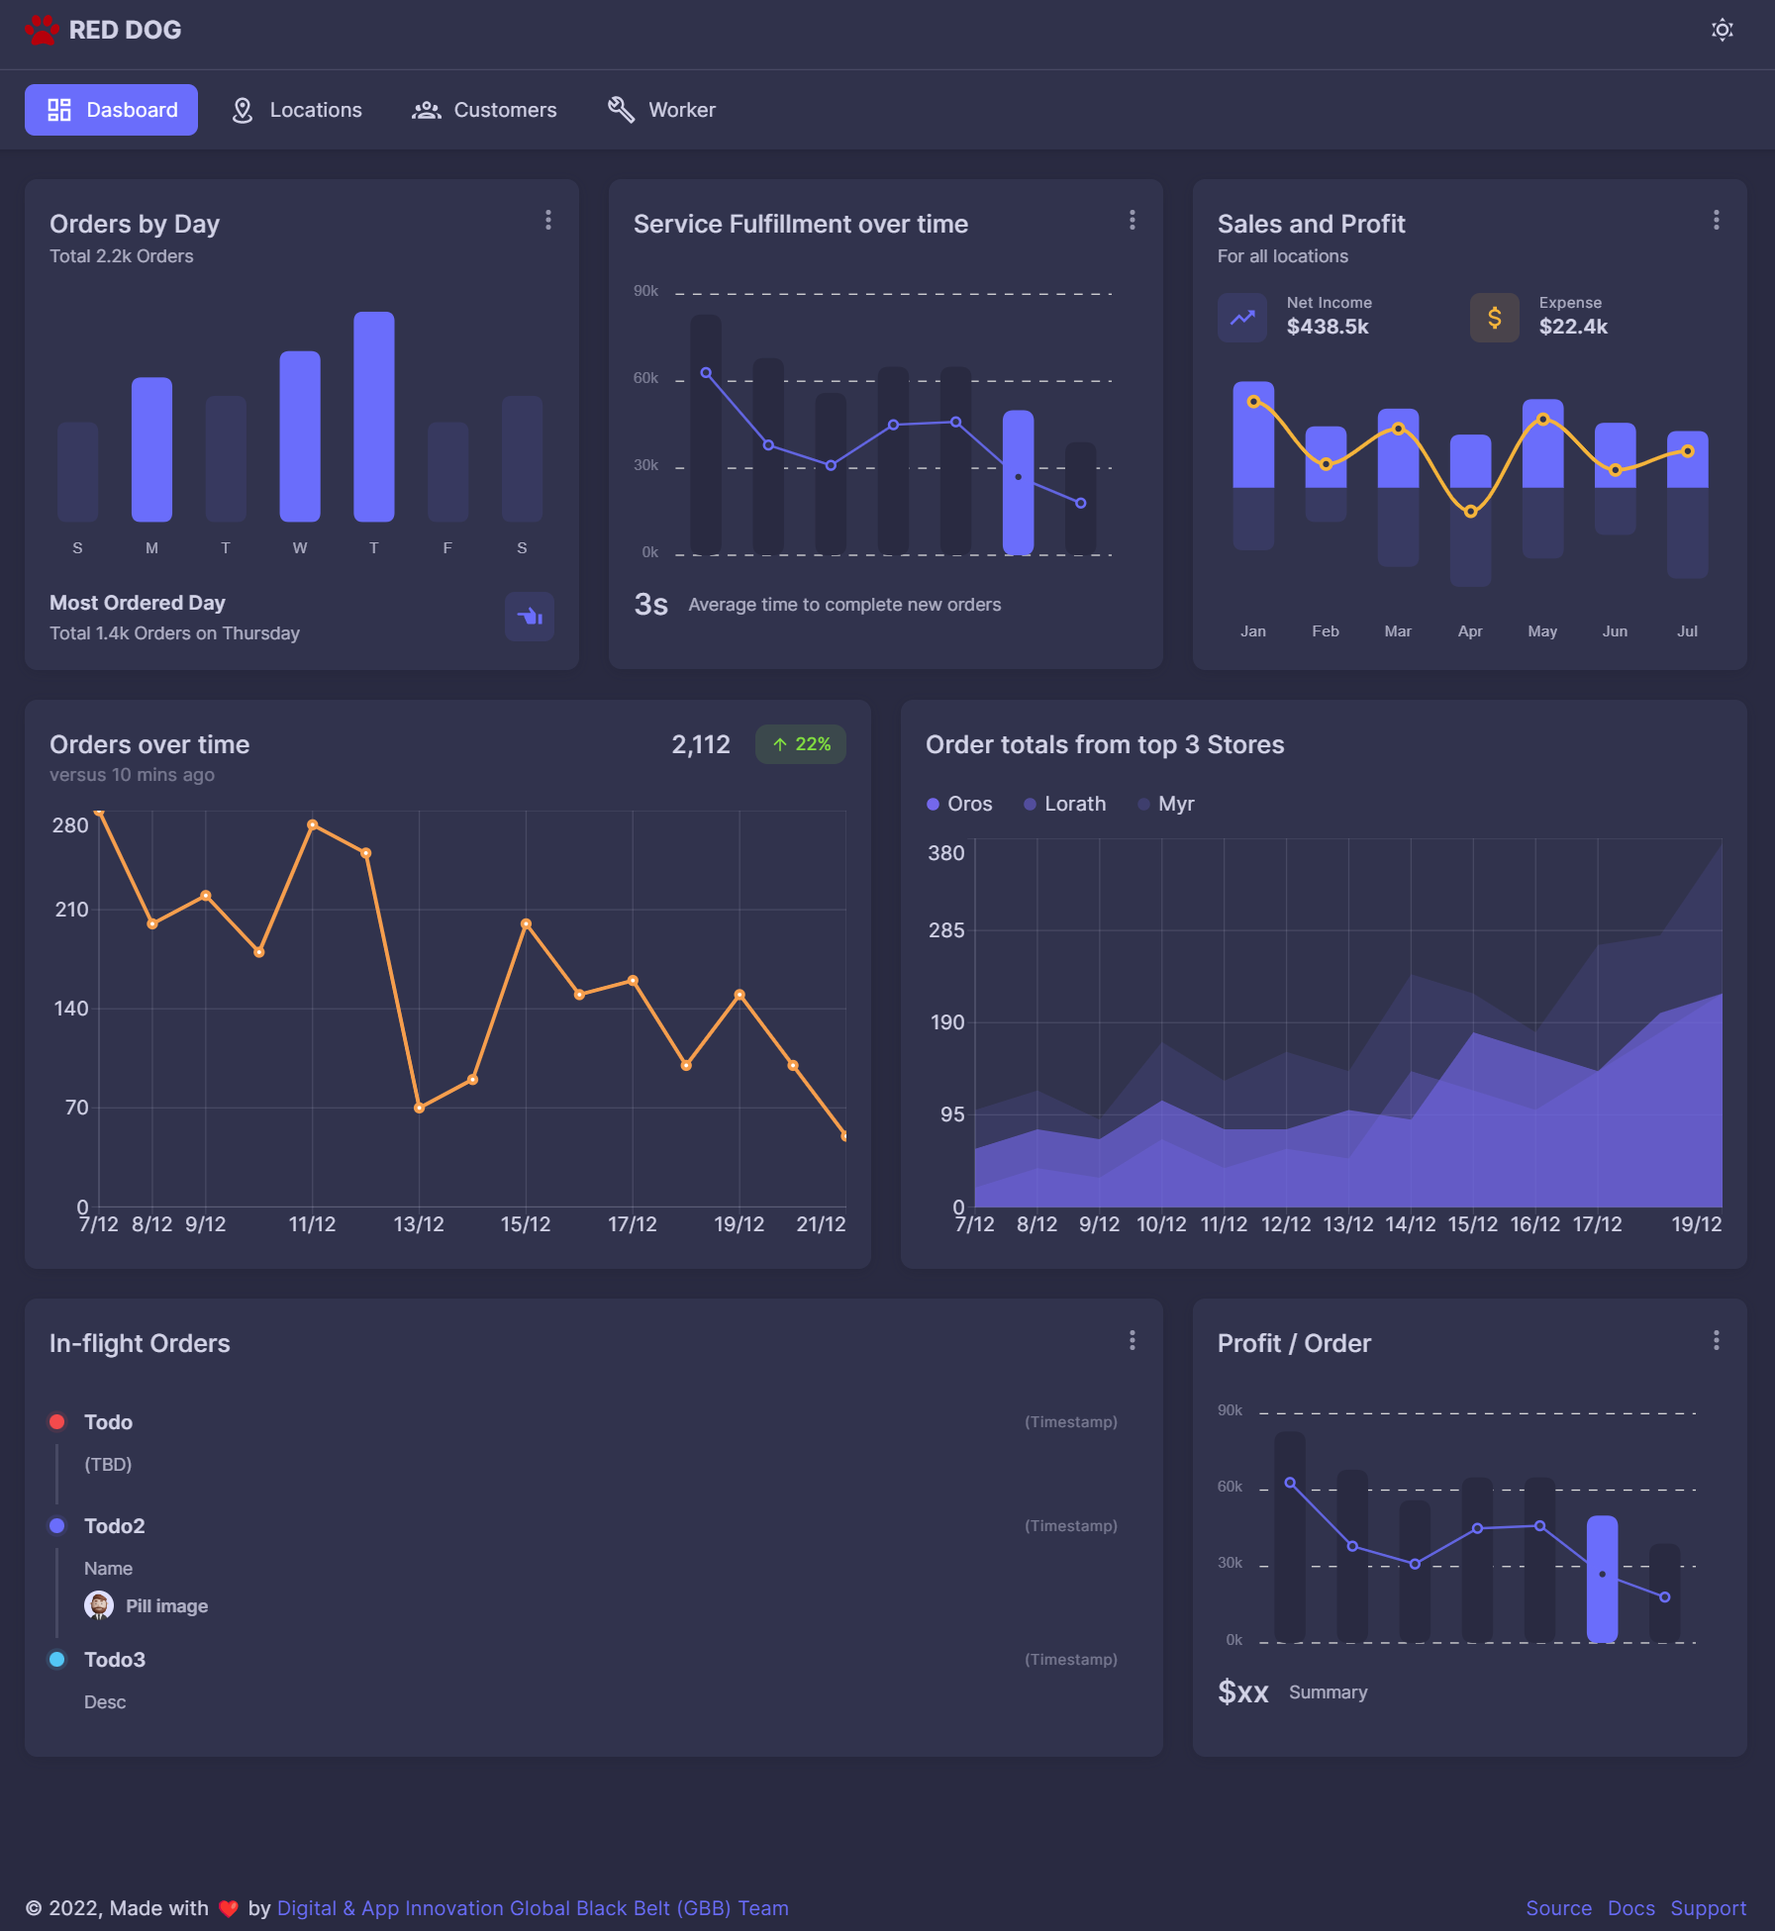
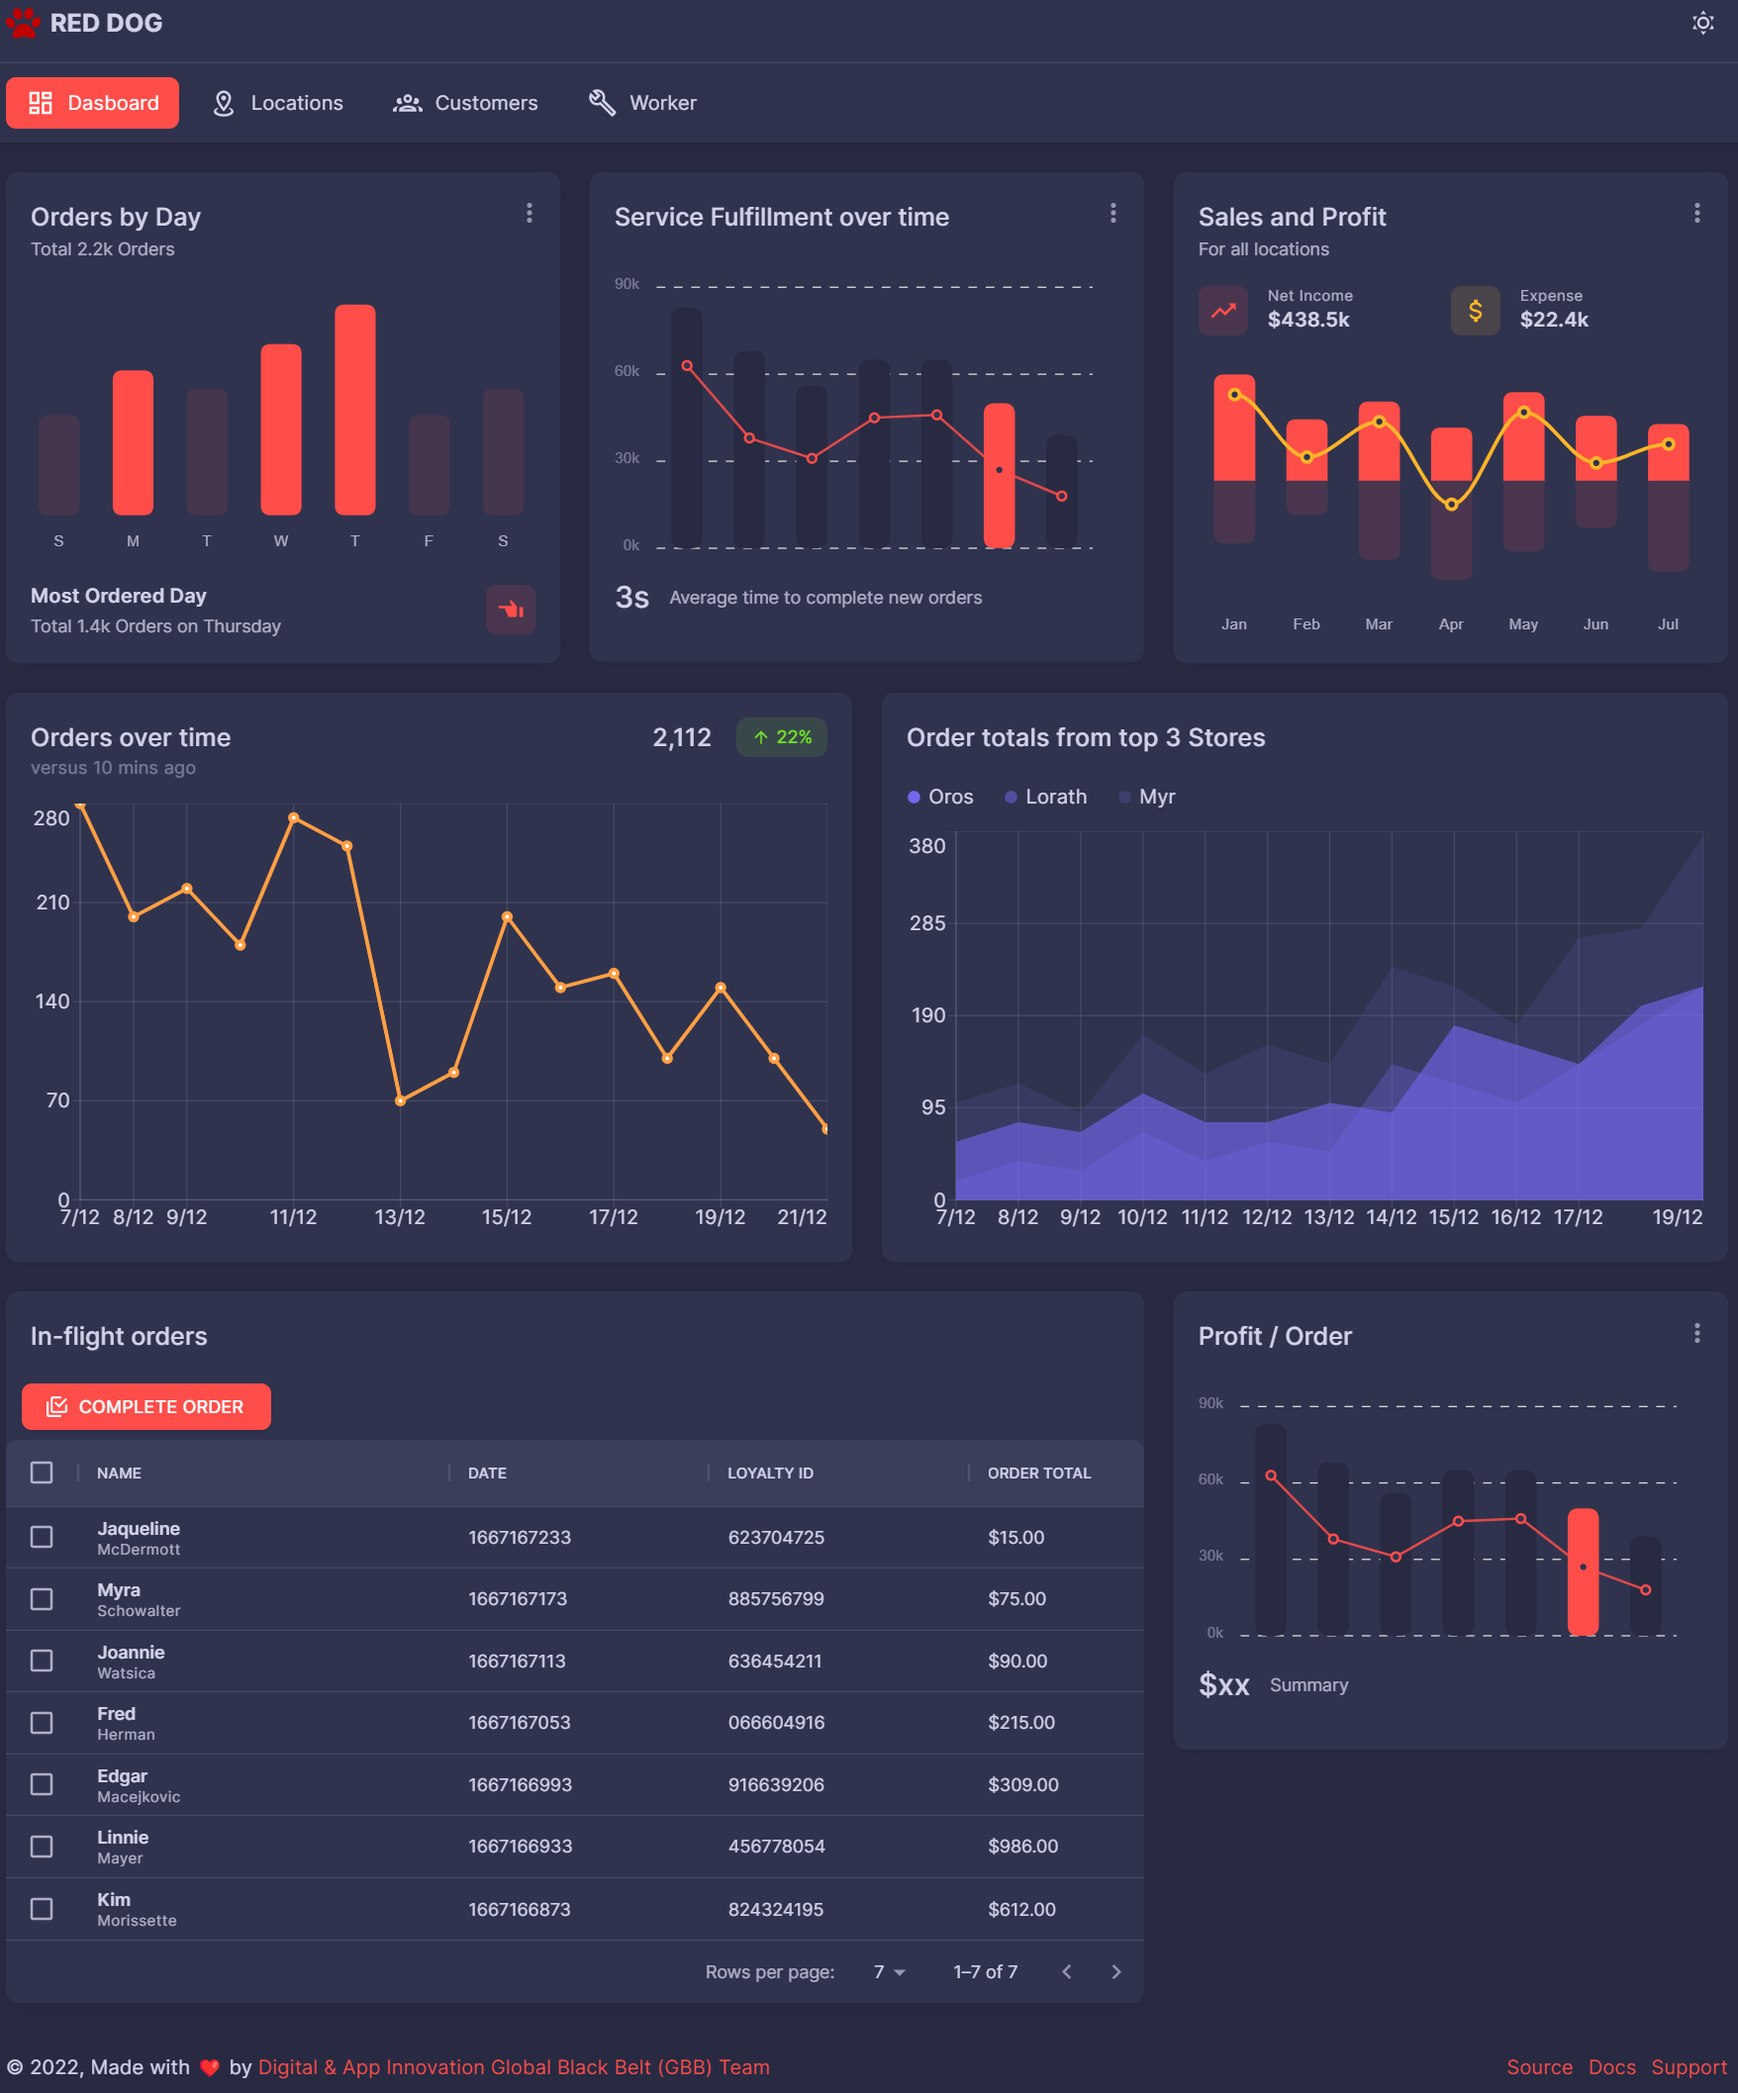
add in-flight orders datagrid

diff --git a/ui/nextjs-react/src/views/table/data-grid/TableServerSide.tsx b/ui/nextjs-react/src/views/table/data-grid/TableServerSide.tsx
@@ -1,0 +1,168 @@
+// ** React Imports
+import {useCallback, useEffect, useState} from 'react'
+
+// ** MUI Imports
+import Box from '@mui/material/Box'
+import Card from '@mui/material/Card'
+import Typography from '@mui/material/Typography'
+import CardHeader from '@mui/material/CardHeader'
+import {DataGrid, GridColumns, GridRenderCellParams, GridSortModel} from '@mui/x-data-grid'
+
+// ** ThirdParty Components
+import axios from 'axios'
+
+// ** Custom Components
+import CustomChip from 'src/@core/components/mui/chip'
+import ServerSideToolbar from 'src/views/table/data-grid/ServerSideToolbar'
+
+// ** Types Imports
+import {ThemeColor} from 'src/@core/layouts/types'
+import {OrdersGridRowType} from "src/@core/utils/types";
+
+// ** Utils Import
+
+interface StatusObj {
+  [key: number]: {
+    title: string
+    color: ThemeColor
+  }
+}
+
+type SortType = 'asc' | 'desc' | undefined | null
+
+
+const statusObj: StatusObj = {
+  1: { title: 'in-flight', color: 'primary' },
+  2: { title: 'Completed', color: 'success' }
+}
+
+const columns: GridColumns = [
+  {
+    flex: 0.25,
+    minWidth: 180,
+    field: 'firstName',
+    headerName: 'Name',
+    renderCell: (params: GridRenderCellParams) => {
+      const { row } = params
+
+      return (
+        <Box sx={{ display: 'flex', alignItems: 'center' }}>
+          <Box sx={{ display: 'flex', flexDirection: 'column' }}>
+            <Typography noWrap variant='body2' sx={{ color: 'text.primary', fontWeight: 600 }}>
+              {row.firstName}
+            </Typography>
+            <Typography noWrap variant='caption'>
+              {row.lastName}
+            </Typography>
+          </Box>
+        </Box>
+      )
+    }
+  },
+  {
+    flex: 0.175,
+    minWidth: 120,
+    headerName: 'Date',
+    field: 'orderCompletedDate',
+    renderCell: (params: GridRenderCellParams) => (
+      <Typography variant='body2' sx={{ color: 'text.primary' }}>
+        {params.row.orderCompletedDate}
+      </Typography>
+    )
+  },
+  {
+    flex: 0.175,
+    minWidth: 110,
+    field: 'loyaltyId',
+    headerName: 'Loyalty ID',
+    renderCell: (params: GridRenderCellParams) => (
+      <Typography variant='body2' sx={{ color: 'text.primary' }}>
+        {params.row.loyaltyId}
+      </Typography>
+    )
+  },
+  {
+    flex: 0.125,
+    field: 'orderTotal',
+    minWidth: 150,
+    headerName: 'Order total',
+    renderCell: (params: GridRenderCellParams) => (
+      <Typography variant='body2' sx={{ color: 'text.primary' }}>
+        ${params.row.orderTotal}
+      </Typography>
+    )
+  }
+]
+
+const TableServerSide = () => {
+  // ** State
+  const [page, setPage] = useState(0)
+  const [total, setTotal] = useState<number>(0)
+  const [sort, setSort] = useState<SortType>('asc')
+  const [pageSize, setPageSize] = useState<number>(7)
+  const [rows, setRows] = useState<OrdersGridRowType[]>([])
+  const [sortColumn, setSortColumn] = useState<string>('full_name')
+
+  function loadServerRows(currentPage: number, data: OrdersGridRowType[]) {
+    return data.slice(currentPage * pageSize, (currentPage + 1) * pageSize)
+  }
+
+  const fetchTableData = useCallback(
+    async (sort: SortType, column: string) => {
+      await axios
+        .get('/api/orders', {
+          params: {
+            sort,
+            column
+          }
+        })
+        .then(res => {
+          setTotal(res.data.orderTotal)
+          setRows(loadServerRows(page, res.data))
+        })
+    },
+    // eslint-disable-next-line react-hooks/exhaustive-deps
+    [page, pageSize]
+  )
+
+  useEffect(() => {
+    fetchTableData(sort, sortColumn)
+  }, [fetchTableData, sort, sortColumn])
+
+  const handleSortModel = (newModel: GridSortModel) => {
+    if (newModel.length) {
+      setSort(newModel[0].sort)
+      setSortColumn(newModel[0].field)
+      fetchTableData(newModel[0].sort,newModel[0].field)
+    } else {
+      setSort('asc')
+      setSortColumn('full_name')
+    }
+  }
+
+
+  return (
+    <Card>
+      <CardHeader title='In-flight orders' />
+      <DataGrid
+        autoHeight
+        pagination
+        rows={rows}
+        rowCount={total}
+        columns={columns}
+        checkboxSelection
+        pageSize={pageSize}
+        sortingMode='server'
+        paginationMode='server'
+        onSortModelChange={handleSortModel}
+        getRowId={row => row.orderId}
+        rowsPerPageOptions={[7, 10, 25, 50]}
+        onPageChange={newPage => setPage(newPage)}
+        components={{ Toolbar: ServerSideToolbar }}
+        onPageSizeChange={newPageSize => setPageSize(newPageSize)}
+      />
+    </Card>
+  )
+}
+
+export default TableServerSide

diff --git a/ui/nextjs-react/src/pages/home/index.tsx b/ui/nextjs-react/src/pages/home/index.tsx
@@ -1,19 +1,11 @@
 // ** MUI Imports
-import Card from '@mui/material/Card'
 import Grid from '@mui/material/Grid'
-import Typography from '@mui/material/Typography'
-import CardHeader from '@mui/material/CardHeader'
-import CardContent from '@mui/material/CardContent'
-import { useEffect, useState } from "react";
+import {useEffect, useState} from "react";
 
 // ** MUI Imports
-import Link from '@mui/material/Link'
-
 // ** Custom Components Imports
-import PageHeader from 'src/@core/components/page-header'
-
 // ** Hooks
-import { useSettings } from 'src/@core/hooks/useSettings'
+import {useSettings} from 'src/@core/hooks/useSettings'
 
 // ** Styled Components
 import RechartsWrapper from 'src/@core/styles/libs/recharts'
@@ -25,11 +17,11 @@ import RechartsAreaChart from 'src/views/charts/recharts/RechartsAreaChart'
 
 // ** Third Party Styles Imports
 import 'react-datepicker/dist/react-datepicker.css'
-import CardWidgetsInflightOrders from "../../views/ui/widgets/CardWidgetsInflightOrders";
 import CardWidgetsWeeklyOverview from "../../views/ui/widgets/CardWidgetsWeeklyOverview";
 import CardWidgetsSalesProfit from "../../views/ui/widgets/CardWidgetsSalesProfit";
 import CardWidgetsOrdersByDay from "../../views/ui/widgets/CardWidgetsOrdersByDay";
 import CardWidgetsSvcFulfillment from "../../views/ui/widgets/CardWidgetsSvcFulfillment";
+import TableServerSide from "../../views/table/data-grid/TableServerSide";
 
 const Home = () => {
 
@@ -78,7 +70,7 @@ const Home = () => {
         </RechartsWrapper>
       </Grid>
       <Grid item xs={12} md={8}>
-        <CardWidgetsInflightOrders />
+        <TableServerSide />
       </Grid>
       <Grid item xs={12} md={4}>
         <CardWidgetsWeeklyOverview />

diff --git a/ui/nextjs-react/src/views/table/data-grid/ServerSideToolbar.tsx b/ui/nextjs-react/src/views/table/data-grid/ServerSideToolbar.tsx
@@ -1,0 +1,34 @@
+// ** React Imports
+// ** MUI Imports
+import Box from '@mui/material/Box'
+import {styled} from '@mui/material/styles'
+import Button from '@mui/material/Button'
+import {GridToolbarContainer} from '@mui/x-data-grid'
+
+// ** Icons Imports
+import {CheckboxMultipleMarkedOutline} from "mdi-material-ui";
+
+
+const StyledGridToolbarContainer = styled(GridToolbarContainer)({
+  p: 2,
+  pb: 0,
+  display: 'flex',
+  flexWrap: 'wrap',
+  alignItems: 'flex-start',
+  justifyContent: 'space-between'
+})
+
+const ServerSideToolbar = () => {
+  return (
+    <StyledGridToolbarContainer>
+      <Box sx={{ mb: 2 }}>
+        <Button variant='contained' startIcon={<CheckboxMultipleMarkedOutline />}>
+          Complete Order
+        </Button>
+
+      </Box>
+    </StyledGridToolbarContainer>
+  )
+}
+
+export default ServerSideToolbar

diff --git a/ui/nextjs-react/src/@core/utils/types.ts b/ui/nextjs-react/src/@core/utils/types.ts
@@ -81,3 +81,13 @@ export type PaymentTypes = {
   formatCardNumber(elem: HTMLInputElement): HTMLInputElement
   formatCardExpiry(elem: HTMLInputElement): HTMLInputElement
 }
+
+export type OrdersGridRowType = {
+  orderId: string
+  firstName: string
+  lastName: string
+  loyaltyId: string
+  orderTotal: number
+  orderCompletedDate: number
+  storeId: string
+}

diff --git a/order-service/src/main/java/com/microsoft/gbb/rasa/orderservice/OrderServiceApplication.java b/order-service/src/main/java/com/microsoft/gbb/rasa/orderservice/OrderServiceApplication.java
@@ -12,7 +12,7 @@ import org.springframework.kafka.annotation.EnableKafka;
 public class OrderServiceApplication {
 
     public static void main(String[] args) {
-        ApplicationInsights.attach();
+        // ApplicationInsights.attach();
         SpringApplication.run(OrderServiceApplication.class, args);
     }
 
